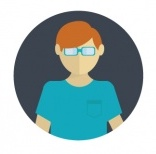
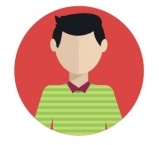
Add more students

diff --git a/week4/script.js b/week4/script.js
@@ -4,7 +4,7 @@ var students = [
     name: "David",
     education: "Art",
     city: "Växjö",
-    pic: ""
+    pic: "./images/david.jpg"
   },
 
   {
@@ -12,6 +12,45 @@ var students = [
     name: "Per",
     education: "Business",
     city: "Götenborg",
-    pic: ""
+    pic: "./images/per.jpg"
+  },
+
+  {
+    id: "3",
+    name: "Alex",
+    education: "IT",
+    city: "Stockholm",
+    pic: "./images/alex.jpg"
+  },
+
+  {
+    id: "4",
+    name: "Annica",
+    education: "Home Desig",
+    city: "Uppsala",
+    pic: "./images/annica.jpg"
   }
+
+  
 ];
+
+function createStudents(arr) {
+  var table= document.createElement('table');
+  var header = document.createElement('tr')
+  //write the header row
+  for(var key in arr[0]){
+    console.log(key)
+    header.innerHTML += `<th>${key.toUpperCase()}</th>`;
+  }
+  table.appendChild(header);
+  for(let i=0; i<arr.length; i++){
+    var row = document.createElement('tr');
+    row.innerHTML = `<td>${arr[i].id}</td>
+                     <td>${arr[i].name}</td>
+                     <td>${arr[i].education}</td>
+                     <td>${arr[i].city}</td>
+                     <td><img src=${arr[i].pic}></td>`;
+    table.appendChild(row);
+  }
+  document.body.appendChild(table)
+}

diff --git a/week4/index.html b/week4/index.html
@@ -4,12 +4,11 @@
   <meta charset="UTF-8">
   <meta name="viewport" content="width=device-width, initial-scale=1.0">
   <meta http-equiv="X-UA-Compatible" content="ie=edge">
-  <title>Document</title>
-  <link rel="stylesheet" type="text/css" href="main.css">
+  <title>week 4</title>
+  <link rel="stylesheet" type="text/css" href="style.css">
   <script src="script.js"></script>
 </head>
 <body>
-  <button onclick="">View books info</button><br>
+  <button onclick="createStudents(students)">View books info</button><br>
 </body>
-
 </html>

diff --git a/week4/style.css b/week4/style.css
@@ -1,0 +1,13 @@
+table tr th{
+  width: 10%;
+}
+
+table tr td {
+  width: 10%;
+  text-align: center;
+}
+
+table img {
+  width: 80px;
+  height: 80px;
+}

diff --git a/week4/README.md b/week4/README.md
@@ -1,0 +1,2 @@
+## Week 4 Assignment
+Create a dynamic student table with 5 columns (Student ID, Student Name, Education, City, Student Picture) using javaScript
